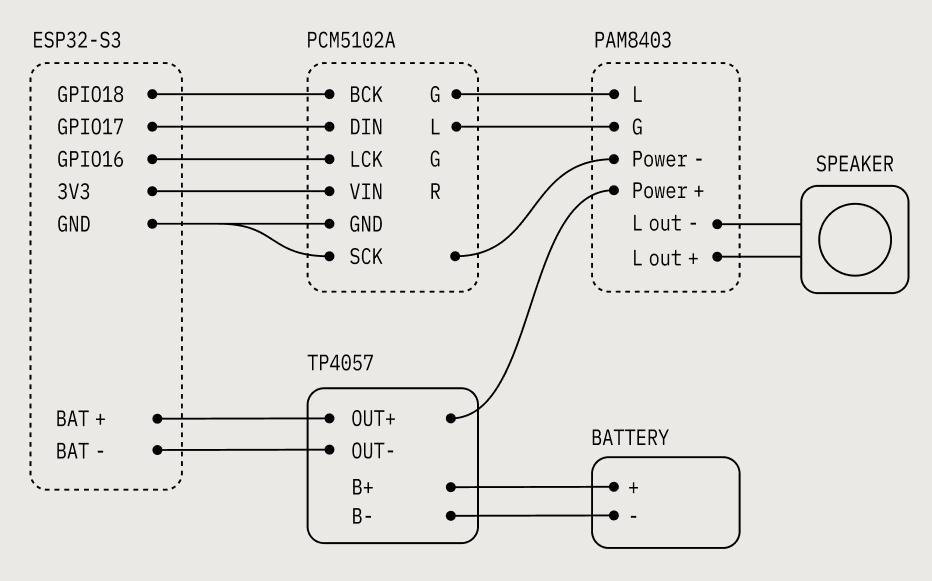
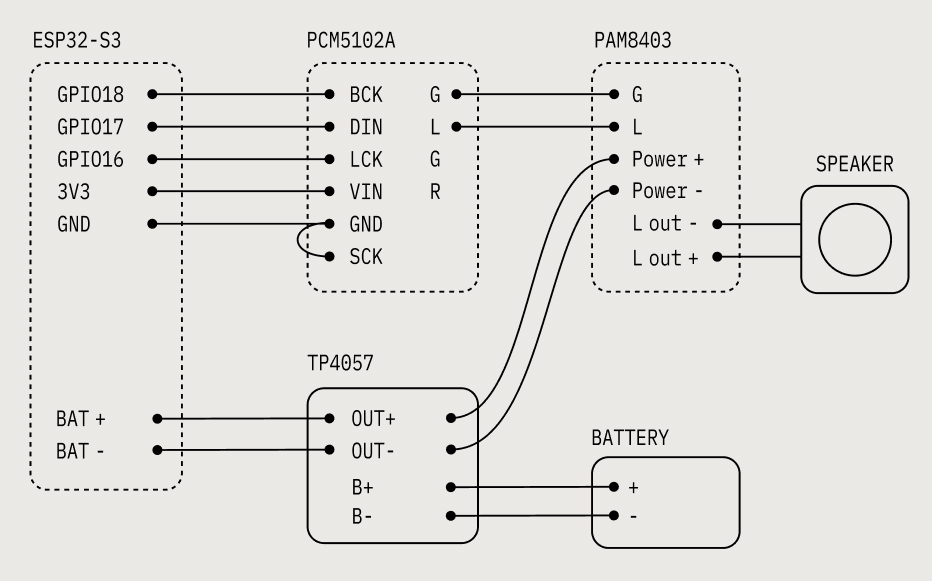
Fix wiring schematic and flash port auto-detect
Correct PCM5102A→PAM8403 wiring (G/L, TP4057 power) and diagram.

flash.sh finds COM ports on Windows; use PORT= if ambiguous.
Thanks Discord builders for the catches.

diff --git a/README.md b/README.md
@@ -110,7 +110,13 @@ First step is to wire up all the components. Follow the schematic diagram to sol
 
 ![Schematic](docs/diagram_3.jpg)
 
-The diagram above is the pin-level wiring map. From the ESP32 header: **GPIO18 → BCK**, **GPIO17 → DIN**, **GPIO16 → LCK** on the PCM5102A, with **3V3 → VIN** and **GND → GND** (also tie the **SCK** to GND). Power runs through the TP4057 to the battery and into the board’s BAT connector.
+The diagram above is the pin-level wiring map.
+
+**ESP32-S3 → PCM5102A (I2S):** **GPIO18 → BCK**, **GPIO17 → DIN**, **GPIO16 → LCK**, **3V3 → VIN**, **GND → GND**. Also tie DAC **SCK to GND**.
+
+**PCM5102A → PAM8403 (analog):** **G → G** and **L → L**. Do not swap those two.
+
+**Power:** run **both** PAM8403 **Power +** and **Power −** from the TP4057 (**OUT+** / **OUT−**). Do not take amp power from the ESP 3V3 rail, and do not use the DAC analog ground as the amp’s power ground. The TP4057 also feeds the battery (**B+** / **B−**) and the board’s **BAT +** / **BAT −** connector.
 
 Power the wired stack and confirm video and audio before you close anything up. When that works, put the parts together in the shell.
 
@@ -119,7 +125,7 @@ Power the wired stack and confirm video and audio before you close anything up. 
 ![Assembly Step 1](docs/assembly_1.jpg)
 
 1. Add an 8-pin male header to the ESP pinout. Then solder some female jumper cables to GPIO18, 17, 16, 3V3, and GND and connect them to the PCM5102A. Make sure to wire the SCK to GND. See photo as an example.
-2. Wire up the audio output from the PCM5102A to the audio input on the PAM8403 and connect power. Important: the (+) positive wire needs to come directly from the battery or TP4057.
+2. Wire up the audio output from the PCM5102A to the audio input on the PAM8403: **G to G**, **L to L**. Connect PAM8403 **Power +** and **Power −** directly to the TP4057 **OUT+** and **OUT−**.
 3. Insert and fasten the PAM8403 to the 3D-printed mounting plate.
 
 ![Assembly Step 2](docs/assembly_2.jpg)

diff --git a/firmware/README.md b/firmware/README.md
@@ -24,6 +24,12 @@ arduino-cli lib install "GFX Library for Arduino"
 
 If the port is not detected, hold **BOOT**, plug in USB, release **BOOT**, then run again.
 
+If several serial ports show up (common on Windows), set the port for one flash:
+
+```bash
+PORT=COM3 ./flash.sh
+```
+
 Press **RESET** after upload. Insert the SD card (`video.avi` on the root) and connect the speaker.
 
 ---
